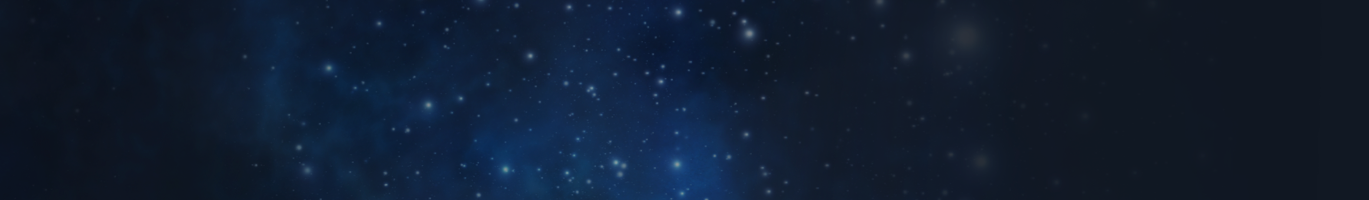
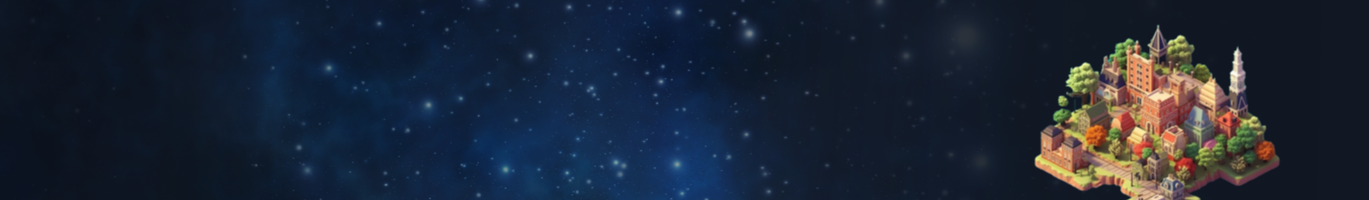
modify images and modify lock staking panel

Changed region(s): [[0.7363, 0.15, 0.9511, 1.0]]

diff --git a/src/components/staking/LockFlexiblePanel.tsx b/src/components/staking/LockFlexiblePanel.tsx
@@ -1,4 +1,4 @@
-import { AccordionButton, AccordionIcon, AccordionItem, AccordionPanel, Avatar, AvatarBadge, Box, Button, Flex, Grid, HStack, Image, Tag, TagLabel, TagLeftIcon, Text, VStack, useColorModeValue } from "@chakra-ui/react"
+import { AccordionButton, AccordionIcon, AccordionItem, AccordionPanel, Avatar, AvatarBadge, Box, Button, Flex, Grid, HStack, Image, Tag, TagLabel, TagLeftIcon, Text, VStack, useColorModeValue, useToast } from "@chakra-ui/react"
 import { LockStakingDuration, LockStakingTime } from "../LockStakingTime"
 import { LockIcon } from "@chakra-ui/icons"
 import { LockStakingAmount } from "../LockStakingAmount"
@@ -11,6 +11,8 @@ import { LockPendingFlare } from "./LockPendingFlare"
 import { useAccount, useSigner } from "wagmi"
 import { toNFix } from "../../common/utils/tools"
 import { LockAmountVe } from "./LockAmountVe"
+import { PendingFlare } from "./PendingFlare"
+import CustomToast from "../CustomToast"
 
 const LockFlexiblePanel = () => {
     const { isConnected, address } = useAccount();
@@ -22,6 +24,8 @@ const LockFlexiblePanel = () => {
     const [boost, setBoost] = useState(0);
     const [stakeAmount, setStakeAmount] = useState(0);
     const [veToken, setVeToken] = useState(0);
+    const toast = useToast()
+    const [inTransaction, setInTransaction] = useState(false);
 
     const bgHeader = useColorModeValue('white', '#242A33')
     const bgPanel = useColorModeValue('#ECFDFF', '#1B2026')
@@ -61,6 +65,43 @@ const LockFlexiblePanel = () => {
     const getVeToken = async () => {
         const result = await ContractService.getTotalVeToken(signer);
         setVeToken(result);
+    }
+
+    const withdrawReward = async () => {
+        toast({
+            position: 'top-right',
+            duration: 1000000,
+            render: () => (<CustomToast status={"info"} 
+                title={"Transacting!"} 
+                description={"The transaction is in progress, please waiting..."} />)
+          })
+        
+        try {
+            setInTransaction(true);
+            const result = await ContractService.withdrawRewardLock(signer);
+
+            setTimeout(function() {
+                toast.closeAll();
+                toast({
+                    position: 'top-right',
+                    render: () => (<CustomToast status={"success"} 
+                        title={"Claimed!"} 
+                        description={"Claim success."} />)
+                  });
+                setInTransaction(false);
+            }, 20000);
+            
+        } catch(err) {
+            toast.closeAll();
+            setInTransaction(false);
+            console.log('staking', err);
+            toast({ 
+                position: 'top-right',
+                render: () => (<CustomToast status={"error"} 
+                    title={"Error"} 
+                    description={"There has some issue happened."} />)
+              })
+        }
     }
 
     useEffect(() => {
@@ -139,6 +180,13 @@ const LockFlexiblePanel = () => {
                             <LockStakingCurrentAPR />
                         </Text>
                     </VStack> */}
+                    <VStack>
+                        <Text className="text-[#FE9D1C] font-medium text-sm">
+                            veToken earned
+                        </Text>
+
+                        <LockAmountVe />
+                    </VStack>
                     <VStack className="!hidden md:!flex">
                         <Text className="text-[11px] font-medium whitespace-nowrap" color={colorDesc}>
                             TOTAL STAKED
@@ -180,6 +228,10 @@ const LockFlexiblePanel = () => {
                         <Box className="text-right font-medium whitespace-nowrap">
                             <TotalStakingAmount />
                         </Box> */}
+                        <Box>Lock for</Box>
+                        <Text className="text-right font-medium text-xs">
+                            <LockStakingDuration />
+                        </Text>
                         <Box className="whitespace-nowrap">Average lock duration</Box>
                         <Box className="text-right font-medium">
                             40 weeks
@@ -187,7 +239,52 @@ const LockFlexiblePanel = () => {
                         <Box>Total VeToken distributed</Box>
                         <Box className="text-right font-medium">{veToken}</Box>
                     </Grid>
-                    <Grid
+
+                    <VStack
+                        border={"1px solid"}
+                        borderColor={colorBorder}
+                        borderRadius={"8px"}
+                        p={"20px"}
+                        my={"20px"}
+                        gap={2}
+                        align={"left"}
+                        className="md:basis-5/12"
+                    >
+                        <Text
+                            className="mb-2 font-medium text-sm"
+                            color={"#FE9D1C"}
+                        >
+                            REWARDS
+                        </Text>
+                        <Flex className="flex-row items-center gap-8">
+                            <LockAmountVe />
+                            <Box className="text-right underline text-sm font-medium" color={colorHeader}>
+                                min reward withdraw is 0.001MF
+                            </Box>
+                        </Flex>
+
+                        <Button
+                            size="lg"
+                            fontSize={16}
+                            bg={bgBtn}
+                            color={"white"}
+                            borderColor={bgBtn}
+                            borderRadius={"22px"}
+                            height={"38px"}
+                            className="w-full col-span-2"
+                            onClick={withdrawReward}
+                            // bgImg={"linear-gradient(135deg, #1AC1CE 0%, #00B3EB 100%)"}
+                            disabled={!isConnected || inTransaction}
+                            // _hover={{ bgImg: "linear-gradient(135deg, #1AC1CE 0%, #00B3EB 100%)" }}
+                            _active={{
+                                // bgImg: "linear-gradient(135deg, #1AC1CE 0%, #00B3EB 100%)",
+                                transform: "scale(0.98)",
+                            }}
+                        >
+                            Claim
+                        </Button>
+                    </VStack>
+                    {/* <Grid
                         border={"1px solid"}
                         borderColor={colorBorder}
                         borderRadius={"8px"}
@@ -197,16 +294,16 @@ const LockFlexiblePanel = () => {
                     >
                         <Text className="text-[#FE9D1C] font-medium text-sm">
                             veToken earned
-                        </Text>
+                        </Text> */}
                         {/* <Text className="text-[#FE9D1C] font-medium text-sm">
                             YIELD BOOST
                         </Text> */}
 
-                        <Text className="font-medium text-xs" color={colorDesc}>
+                        {/* <Text className="font-medium text-xs" color={colorDesc}>
                             Lock for <LockStakingDuration />
-                        </Text>
+                        </Text> */}
 
-                        <LockAmountVe />
+                        {/* <LockAmountVe /> */}
 
                         {/* <Flex className="flex-col"> */}
                             {/* <Text className="font-bold text-xl" color={colorHeader}>
@@ -234,7 +331,7 @@ const LockFlexiblePanel = () => {
                         >
                             Claim
                         </Button> */}
-                    </Grid>
+                    {/* </Grid> */}
 
                     <Flex
                         border={"1px solid"}

diff --git a/src/service/landService.ts b/src/service/landService.ts
@@ -1,7 +1,12 @@
 import { urlFetcher } from '../common/utils/http';
-import { ethers } from 'ethers';
 import { ContractService } from './contractService';
+import { LandContractAddr } from '../common/constants';
 
+
+// 最大值 left 
+// 总的是 totalLeft
+// 1000 是 ogRedeem
+// 3000 是 ebRedeem
 const getLandPriceAndNumber = async (signer, address) => {
     try {
         const landContract = ContractService.getLandContract(signer);
@@ -15,9 +20,9 @@ const getLandPriceAndNumber = async (signer, address) => {
             landContract.redeemed(address)
         ]);
 
-        let ogNumberValue = ogNumber.toNumber();
-        let ebNumberValue = ebNumber.toNumber();
-        let leftNumberValue = leftNumber.toNumber();
+        let ogNumberValue = ogNumber.toNumber(); // ogRedeem
+        let ebNumberValue = ebNumber.toNumber(); // ebRedeem
+        let leftNumberValue = leftNumber.toNumber(); // totalLeft
         let NFTBalanceValue = NFTBalance.toNumber();
 
         let price = 5000;
@@ -26,23 +31,25 @@ const getLandPriceAndNumber = async (signer, address) => {
         // 1000u
         if (ogNumberValue < 2000 && NFTBalanceValue > 0 && !redeemed) {
             price = 1000;
-            maxNumber = 1;
+            maxNumber = ogNumberValue;
         }
 
         // 3000u
         else if (new Date() < new Date(2023, 6, 10) && ebNumberValue < 3000) {
             price = 3000;
-            if (maxNumber > 3000 - ebNumberValue) {
-                maxNumber = 3000 - ebNumberValue
-            }
+            maxNumber = ebNumberValue;
+            // if (maxNumber > 3000 - ebNumberValue) {
+            //     maxNumber = 3000 - ebNumberValue
+            // }
         }
 
         // 5000u
         else if (leftNumberValue > 0) {
             price = 5000;
-            if (maxNumber > leftNumberValue) {
-                maxNumber = leftNumberValue
-            }
+            maxNumber = leftNumberValue;
+            // if (maxNumber > leftNumberValue) {
+            //     maxNumber = leftNumberValue
+            // }
         }
 
         return { price, maxNumber }
@@ -63,8 +70,12 @@ const buyLand = async (signer, address, price, quantity) => {
         if (result?.success) {
             const landContract = ContractService.getLandContract(signer);
             const usdtContract = ContractService.getUsdtContract(signer);
-            const approveResult = await usdtContract.approve(address, quantity * 1000);
-            console.log("approveResult", approveResult);
+            const allowance =  await usdtContract.allowance(address, LandContractAddr);
+            if (allowance < 5000) {
+                const approveResult = await usdtContract.approve(address, quantity * 1000);
+                console.log("approveResult", approveResult);
+            }
+            
             const redeemResult = await landContract.redeem(result.data);
             console.log("redeemResult", redeemResult);
         }

diff --git a/src/components/BuyLand.tsx b/src/components/BuyLand.tsx
@@ -1,5 +1,5 @@
 import React, { useEffect, useState } from 'react';
-import { Box, Button, Image, Text, Flex, IconButton, useBreakpointValue, useToast } from '@chakra-ui/react';
+import { Box, Button, Image, Text, Flex, IconButton, useBreakpointValue, useToast, Input } from '@chakra-ui/react';
 import { AddIcon, MinusIcon } from '@chakra-ui/icons';
 import { LandService } from '../service/landService';
 import { useAccount, useSigner } from "wagmi";
@@ -74,6 +74,14 @@ const BuyLand: React.FC = () => {
     }
   };
 
+  const quantityChange = (event) => {
+    const value = event.target.value;
+    if (isNaN(value) || value == 0) {
+        return;
+    }
+    setQuantity(value);
+  }
+
   useEffect(() => {
     setRemain(landData.maxNumber - quantity);
   }, [quantity])
@@ -108,7 +116,9 @@ const BuyLand: React.FC = () => {
              _hover={{bg: "transparent"}} 
              _active={{bg: "transparent"}}
              onClick={handleDecrease} />
-          <Text px={4} borderRight={"1px solid rgba(91,102,118,1)"} borderLeft={"1px solid rgba(91,102,118,1)"}>{quantity}</Text>
+          <Text borderRight={"1px solid rgba(91,102,118,1)"} borderLeft={"1px solid rgba(91,102,118,1)"}>
+            <Input variant='unstyled' placeholder='Unstyled' w={"50px"} textAlign={"center"} value={quantity} onChange={quantityChange} />
+          </Text>
           <IconButton aria-label="Increase" icon={<AddIcon fontSize={"10px"} />} 
             bg={"transparent"} 
             _hover={{bg: "transparent"}} 

diff --git a/src/service/contractService.ts b/src/service/contractService.ts
@@ -74,7 +74,18 @@ const withdrawReward = async (signer) => {
         console.error('withdrawReward Error: ', error);
         throw error;
     }
-};
+}
+
+const withdrawRewardLock = async (signer) => {
+    try {
+        const contract = getStakingLockContract(signer);
+        const result = await contract.withdrawReward();
+        console.log('withdrawReward: ', result);
+    } catch (error) {
+        console.error('withdrawReward Error: ', error);
+        throw error;
+    }
+}
 
 const redeem = async (voucher, signer) => {
     try {
@@ -544,6 +555,7 @@ export const ContractService = {
     getTotalVeToken,
     totalAllocPoint,
     lockStakingAPR,
+    withdrawRewardLock,
     userLockStakingAmountVe,
     reEnterLockStakingAPR,
     // lockStakingROI,

diff --git a/src/pages/land.tsx b/src/pages/land.tsx
@@ -61,8 +61,8 @@ const Upper = () => {
 
 const LandImage = () => {
   const images = [
-    '/assets/images/land-image.png',
-    '/assets/images/land-image.png',
+    '/assets/images/land-image-01.png',
+    '/assets/images/land-image-02.png',
   ];
   return (
     <ImageCarousel images={images} />
